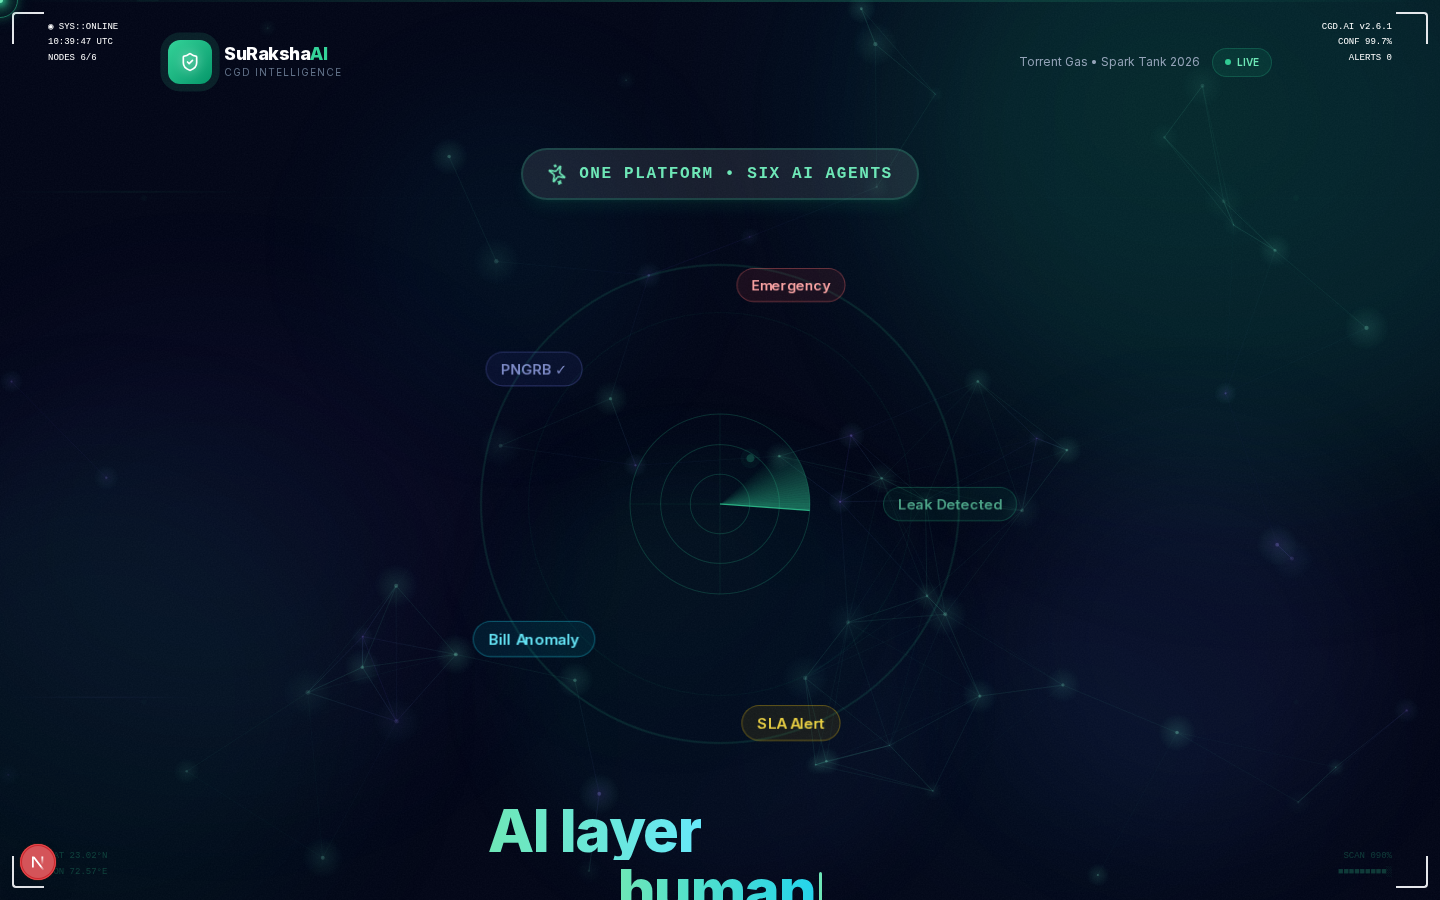
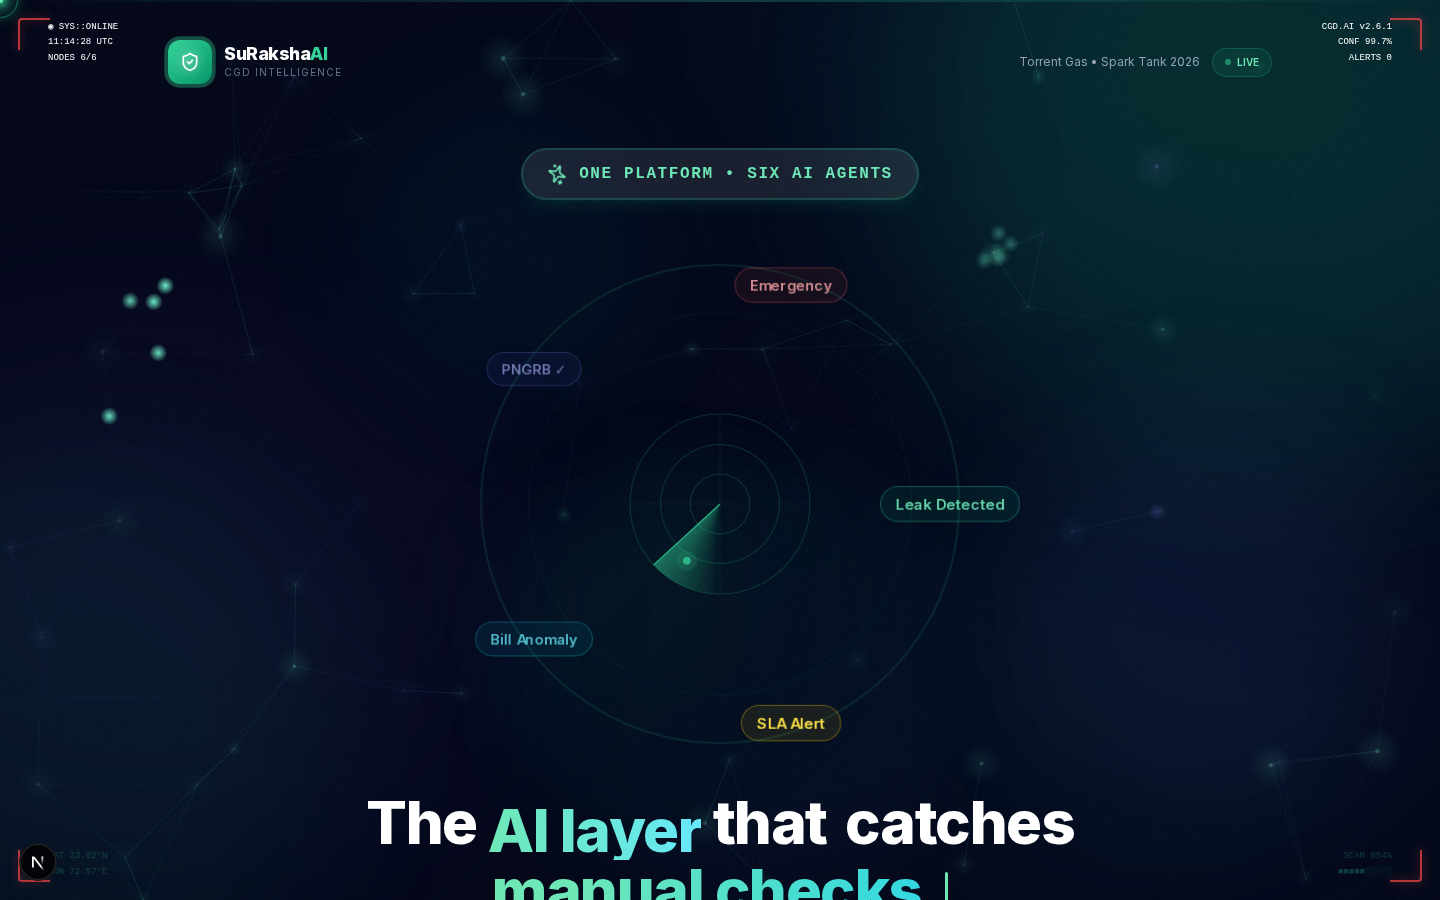
add camera animations

diff --git a/app/globals.css b/app/globals.css
@@ -306,6 +306,47 @@ body { background: var(--background); color: #1e293b; }
 .floaty-2 { animation:floatY2 9s ease-in-out infinite; }
 .tw-cursor { display:inline-block; margin-left:1px; animation:blink 1s steps(1) infinite; }
 
+/* ─── HUD Corner camera focus animations ─── */
+@keyframes hudCornerFocus {
+  0%, 35%, 65%, 100% {
+    border-color: rgba(52,211,153,0.22);
+    filter: none;
+  }
+  43%, 57% {
+    border-color: rgba(239,68,68,0.75);
+    filter: drop-shadow(0 0 5px rgba(239,68,68,0.7));
+  }
+}
+@keyframes hudTlFocus {
+  0%, 35%, 65%, 100% { transform: translate(0, 0); }
+  43%, 57% { transform: translate(6px, 6px); }
+}
+@keyframes hudTrFocus {
+  0%, 35%, 65%, 100% { transform: translate(0, 0); }
+  43%, 57% { transform: translate(-6px, 6px); }
+}
+@keyframes hudBlFocus {
+  0%, 35%, 65%, 100% { transform: translate(0, 0); }
+  43%, 57% { transform: translate(6px, -6px); }
+}
+@keyframes hudBrFocus {
+  0%, 35%, 65%, 100% { transform: translate(0, 0); }
+  43%, 57% { transform: translate(-6px, -6px); }
+}
+
+.hud-corner-tl {
+  animation: hudCornerFocus 6s ease-in-out infinite, hudTlFocus 6s ease-in-out infinite;
+}
+.hud-corner-tr {
+  animation: hudCornerFocus 6s ease-in-out infinite, hudTrFocus 6s ease-in-out infinite;
+}
+.hud-corner-bl {
+  animation: hudCornerFocus 6s ease-in-out infinite, hudBlFocus 6s ease-in-out infinite;
+}
+.hud-corner-br {
+  animation: hudCornerFocus 6s ease-in-out infinite, hudBrFocus 6s ease-in-out infinite;
+}
+
 /* ══════════════════════════════════════════════════════════════
    REDUCED MOTION
 ══════════════════════════════════════════════════════════════ */

diff --git a/app/landing-client.tsx b/app/landing-client.tsx
@@ -239,8 +239,8 @@ function HUDOverlay() {
     <div className="fixed inset-0 z-[25] pointer-events-none select-none">
       {/* Corner brackets */}
       {[["top-3 left-3 border-t-2 border-l-2 rounded-tl","tl"],["top-3 right-3 border-t-2 border-r-2 rounded-tr","tr"],
-        ["bottom-3 left-3 border-b-2 border-l-2 rounded-bl","bl"],["bottom-3 right-3 border-b-2 border-r-2 rounded-br","br"]].map(([cls]) => (
-        <div key={cls} className={`absolute w-8 h-8 border-brand-400/22 ${cls}`} />
+        ["bottom-3 left-3 border-b-2 border-l-2 rounded-bl","bl"],["bottom-3 right-3 border-b-2 border-r-2 rounded-br","br"]].map(([cls, cornerId]) => (
+        <div key={cornerId} className={`absolute w-8 h-8 border-brand-400/22 transition-all duration-300 hud-corner-${cornerId} ${cls}`} />
       ))}
 
       {/* TL */}